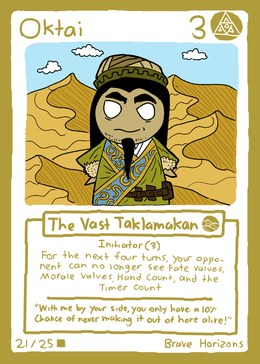
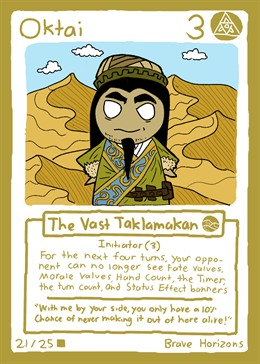
Complete Taklamakan concealment and turn audio fixes

Changed region(s): [[0.1538, 0.6648, 0.8923, 0.8159], [0.7077, 0.0302, 0.8, 0.1209]]

diff --git a/src/scripts/45-match-ui-codex.js b/src/scripts/45-match-ui-codex.js
@@ -75,6 +75,30 @@
     if(out&&source&&source.textContent)out.textContent=source.textContent;
   }
   function copyHtml(root,key){const out=root.querySelector(`[data-html="${key}"]`),source=$(key);if(out&&source&&out.dataset.cache!==source.innerHTML){out.innerHTML=source.innerHTML;out.dataset.cache=source.innerHTML}}
+  function playEndTurnInputCue(key){
+    // Run directly inside the trusted click gesture.  Deferred/authoritative
+    // submission may happen after that gesture and Chromium can reject audio.
+    const dedupeKey=String(key||'end-turn-input');
+    const store=window.__fatePlayedEndTurnInputCues||(window.__fatePlayedEndTurnInputCues=new Set());
+    if(store.has(dedupeKey))return false;
+    store.add(dedupeKey);
+    return playTurnStartCue('turn-end:'+dedupeKey);
+  }
+  window.playFateEndTurnInputCue=playEndTurnInputCue;
+  function playTurnStartCue(key){
+    const dedupeKey=String(key||'turn-start');
+    const store=window.__fatePlayedTurnStartCues||(window.__fatePlayedTurnStartCues=new Set());
+    if(store.has(dedupeKey))return false;
+    store.add(dedupeKey);
+    // The core sound has its own broad time throttle. Reset it here because
+    // this exact turn key is the stronger dedupe and competing UI observers
+    // must not consume the cue first.
+    window.__fateLastTurnChangeSfxAt=0;
+    if(typeof window.playSfx==='function'){window.playSfx('turnChange');return true;}
+    if(typeof window.playFateSfxOnce==='function')return window.playFateSfxOnce('turnChange',dedupeKey,0);
+    return false;
+  }
+  window.playFateTurnStartCue=playTurnStartCue;
   function invokeEndTurn(){
     // The authoritative screen is the only owner of a v3 local turn. Submit
     // directly to it; forwarding through the hidden legacy button makes human
@@ -84,8 +108,7 @@
       const command=screen?.view?.legalCommands?.find(item=>item.type==='END_TURN');
       if(screen&&command){
         const turn=Number(screen.view?.state?.turn||0);
-        if(typeof window.playEndTurnSfxOnce==='function')window.playEndTurnSfxOnce('end-turn:authority-local:'+turn);
-        else if(typeof window.playSfx==='function')window.playSfx('endTurn');
+        playEndTurnInputCue('end-turn:authority-local:'+turn);
         screen.submit(command);
       }
       return;
@@ -119,7 +142,14 @@
   function escapeStatusText(value){
     return String(value||'').replace(/[&<>"']/g,char=>({'&':'&amp;','<':'&lt;','>':'&gt;','"':'&quot;',"'":'&#39;'}[char]));
   }
-  function statusRailSummary(key){
+  function concealedMoraleTooltip(html){
+    const template=document.createElement('template');
+    template.innerHTML=String(html||'');
+    const value=template.content.querySelector('header b');
+    if(value)value.textContent='???/???';
+    return template.innerHTML;
+  }
+  function statusRailSummary(key,onlyTaklamakan){
     const rail=$(key==='you'?'tp-status-left':'tp-status-right');
     const completeEffects=Array.isArray(rail?._fateAllStatusEffects)?rail._fateAllStatusEffects:null;
     if(completeEffects){
@@ -127,6 +157,7 @@
       completeEffects.forEach(effect=>{
         if(!effect||effect.isOverflow)return;
         const ability=String(effect.cardAbility||effect.label||'Active Effect').trim();
+        if(onlyTaklamakan&&ability!=='The Vast Taklamakan'&&!String(effect.extraClass||'').includes('oktai-conceal'))return;
         const description=String(effect.cardEffect||ability).replace(/\s+/g,' ').trim();
         const signature=(ability+'|'+description).toLowerCase();
         if(seen.has(signature))return;
@@ -140,6 +171,7 @@
     const seen=new Set(),entries=[];
     pills.forEach(pill=>{
       const ability=String(pill.dataset.effectAbility||pill.querySelector('.ept-ability')?.textContent||pill.querySelector('.effect-pill-label')?.textContent||'Active Effect').trim();
+      if(onlyTaklamakan&&ability!=='The Vast Taklamakan'&&!pill.classList.contains('effect-pill-oktai-conceal'))return;
       const description=String(pill.querySelector('.ept-effect')?.textContent||pill.getAttribute('aria-label')||pill.getAttribute('title')||'').replace(/\s+/g,' ').trim();
       const signature=(ability+'|'+description).toLowerCase();
       if(seen.has(signature))return;
@@ -190,6 +222,7 @@
     ['my-name','opp-name','turn-hud-turn','turn-hud-timer','turn-hud-player','my-deck-count','my-discard-count','act-hint'].forEach(k=>copyText(root,k));
     ['my-name','opp-name'].forEach(key=>{const name=root.querySelector(`[data-text="${key}"]`),length=(name?.textContent||'').trim().length;if(name){name.classList.toggle('is-long-name',length>=21);name.classList.toggle('is-very-long-name',length>=28)}});
     const clockText=root.querySelector('[data-text="turn-hud-timer"]');
+    const turnCountText=root.querySelector('[data-text="turn-hud-turn"]');
     const clockMatch=(clockText?.textContent||'').match(/\d+\s*:\s*\d+/);
     if(clockText&&clockMatch)clockText.textContent=clockMatch[0].replace(/\s/g,'');
     copyHtml(root,'my-stat');copyHtml(root,'opp-stat');
@@ -197,8 +230,8 @@
     const turnState=authorityView?.state||(invoke('getFateGameState')||window.FATE_GAME_STATE||{}),activePlayer=Number(turnState?.activePlayer??turnState?.currentPlayer),turnNumber=Number(turnState?.turn??turnState?.turnNumber??0),turnSoundKey=[String(turnState?.matchId||turnState?._onlineRoomCode||'local'),turnNumber,activePlayer].join(':');
     if(root._lastTurnOwnershipSoundKey!==turnSoundKey){
       root._lastTurnOwnershipSoundKey=turnSoundKey;
-      if(activePlayer===self&&(!window.shouldPlayTurnChangeSfx||window.shouldPlayTurnChangeSfx())){
-        if(typeof window.playSfx==='function')window.playSfx('turnChange');
+      if(activePlayer===self){
+        playTurnStartCue('turn-start:'+turnNumber+':'+activePlayer);
       }
     }
     const selfProjected=authorityView?.state?.players?.[self],rivalProjected=authorityView?.state?.players?.[rival];
@@ -206,6 +239,7 @@
     const bh21Concealed=typeof window.isBh21ViewerConcealed==='function'&&window.isBh21ViewerConcealed(self);
     root.querySelector('[data-hand-count="self"]').textContent=bh21Concealed?'?':String(selfHand);root.querySelector('[data-hand-count="rival"]').textContent=bh21Concealed?'?':String(rivalHand);
     if(clockText&&bh21Concealed)clockText.textContent='?:??';
+    if(turnCountText&&bh21Concealed)turnCountText.textContent='??/??';
     const pilePlayer=currentPilePlayer(self);
     const discardArt=root.querySelector('[data-discard] .codex-v19-archive-art');
     if(discardArt){
@@ -246,11 +280,11 @@
         if(label)label.textContent=bh21Concealed?'???':String(value);if(fill)fill.style.width=Math.max(0,Math.min(100,displayedValue/max*100))+'%';
        const moralePanel=root.querySelector(`[data-morale-panel="${key}"]`);
         const liveMoraleContent=panel?.querySelector('.mp-morale-tip')?.innerHTML||'<p>Morale penalties are inactive.</p>';
-        if(bh21Concealed&&root._bh21MoraleUiSnapshot&&!root._bh21MoraleUiSnapshot.contents[key])root._bh21MoraleUiSnapshot.contents[key]=liveMoraleContent;
+        if(bh21Concealed&&root._bh21MoraleUiSnapshot&&!root._bh21MoraleUiSnapshot.contents[key])root._bh21MoraleUiSnapshot.contents[key]=concealedMoraleTooltip(liveMoraleContent);
         if(moralePanel)moralePanel.dataset.content=bh21Concealed?(root._bh21MoraleUiSnapshot?.contents?.[key]||liveMoraleContent):liveMoraleContent;
        if(button){
-         const rail=statusRailSummary(key),summaryCount=Number((statusNode?.querySelector(':scope > b')?.textContent||'0').match(/\d+/)?.[0]||0),count=Math.max(summaryCount,rail.count),content=rail.count?rail.content:(statusNode?.querySelector('.mp-status-popover')?.innerHTML||'<p>No active status effects.</p>');
-          button.querySelector('[data-status-count]').textContent=String(count);button.dataset.content=content;
+          const rail=statusRailSummary(key,bh21Concealed),summaryCount=Number((statusNode?.querySelector(':scope > b')?.textContent||'0').match(/\d+/)?.[0]||0),count=bh21Concealed?rail.count:Math.max(summaryCount,rail.count),content=rail.count?rail.content:(bh21Concealed?'<p>The Taklamakan hinders your ability to view active statuses.</p>':(statusNode?.querySelector('.mp-status-popover')?.innerHTML||'<p>No active status effects.</p>'));
+           button.querySelector('[data-status-count]').textContent=bh21Concealed?'?':String(count);button.dataset.content=content;
           button.setAttribute('aria-label',(key==='you'?'Your':'Opponent')+' status effects');
          updateStatusItems(button,statusNode,count);
        }

diff --git a/index.html b/index.html
@@ -12,7 +12,7 @@
 <link rel="icon" href="blank.png">
   <link rel="stylesheet" href="src/styles/game.css?v=1785072307">
 <link rel="stylesheet" href="src/styles/99-ui-final.css?v=1784660001">
-<link rel="stylesheet" href="src/styles/zz-codex-last.css?v=1788356101">
+<link rel="stylesheet" href="src/styles/zz-codex-last.css?v=1788372101">
 <link rel="stylesheet" href="src/styles/profile-view-v2.css?v=1788000601">
 <link rel="stylesheet" href="src/styles/profile-picker-performance.css?v=1788280003">
 <link rel="stylesheet" href="src/styles/match-scene-v2.css?v=1788000201">
@@ -23,7 +23,7 @@
 <link rel="stylesheet" href="src/styles/endgame.css?v=1788280001">
 <!-- The match shell is intentionally loaded last. It is a reversible, single
      authority layer; fateMatchUI=0 restores the retained legacy match UI. -->
-<link rel="stylesheet" href="src/styles/zzzzzzzzzzzzzzzzzzzzzzz-match-ui-svg-v20.css?v=1788356401">
+<link rel="stylesheet" href="src/styles/zzzzzzzzzzzzzzzzzzzzzzz-match-ui-svg-v20.css?v=1788372101">
 <!-- Inline emergency overrides moved to src/styles/99-ui-final.css?v=208. -->
 </head>
 <body>
@@ -613,7 +613,7 @@
 <!-- TOAST -->
 <div id="toast"></div>
 
-  <script src="src/scripts/00-structural-helpers.js?v=1788295601"></script>
+  <script src="src/scripts/00-structural-helpers.js?v=1788368101"></script>
   <script src="src/scripts/01-data-and-state.js?v=1788362401"></script>
   <script src="src/scripts/01a-pressure-card-reworks.js?v=1788353101"></script>
 <script src="src/scripts/02-screen-and-deckbuilder.js?v=1788351001"></script>
@@ -621,8 +621,8 @@
 <script src="src/scripts/13-svg-ui-enhancements.js?v=1780269000"></script>
   <script src="src/scripts/03-profile-and-progression.js?v=1788000701"></script>
 <script src="src/scripts/04-game-setup.js?v=1788002503"></script>
-<script src="src/scripts/05-gameplay-core.js?v=1788356101"></script>
-  <script src="src/scripts/06-rendering-and-helpers.js?v=1788362401"></script>
+<script src="src/scripts/05-gameplay-core.js?v=1788372001"></script>
+  <script src="src/scripts/06-rendering-and-helpers.js?v=1788372001"></script>
 <script src="src/scripts/render-v2/00-render-v2-flags.js?v=1780590901"></script>
   <script src="src/scripts/render-v2/01-render-snapshot.js?v=1787980001"></script>
 <script src="src/scripts/render-v2/02-match-layout-engine.js?v=1788120601"></script>
@@ -648,8 +648,8 @@
   <script src="src/scripts/08a-profile-performance.js?v=1788280005"></script>
   <script src="src/scripts/27-morale-pressure-ui.js?v=1788362401"></script>
   <script src="src/scripts/34-hand-viewer.js?v=1788073001"></script>
-  <script src="src/scripts/45-match-ui-codex.js?v=1788365401"></script>
-<script src="src/scripts/46-bh21-hooks.js?v=1788365401"></script>
+  <script src="src/scripts/45-match-ui-codex.js?v=1788372101"></script>
+<script src="src/scripts/46-bh21-hooks.js?v=1788372001"></script>
   <script src="src/scripts/25-profile-view-v2.js?v=1785350004"></script>
 <script src="src/scripts/09-challenger-mode.js?v=1788280003"></script>
 <script src="src/scripts/09a-card-information-5-lore.js?v=1784293501"></script>
@@ -673,7 +673,7 @@
     './src/scripts/15-online-auth.js?v=1788337802',
     './src/scripts/16-online-core.js?v=1782617501',
     './src/scripts/17-online-social.js?v=1788000401',
-    './src/scripts/18-online-rooms.js?v=1788365401&sync=1788365401',
+    './src/scripts/18-online-rooms.js?v=1788369001&sync=1788369001',
     './src/scripts/19-online-elo.js?v=1788000401',
     './src/scripts/20-online-economy.js?v=1788001501'
   ];

diff --git a/src/scripts/46-bh21-hooks.js b/src/scripts/46-bh21-hooks.js
@@ -69,8 +69,13 @@
     replacementPausedBaseMusic=true;
   }
   function makennaAddedTurnActive(){
-    const state=window.G;
-    return !!(state&&state._makennaBirdCultActivated&&Number(state.turn)>=24&&Number(state.turn)<=Number(state.maxTurns));
+    const bridged=typeof window.getMakennaLandscapePresentationState==='function'
+      ? window.getMakennaLandscapePresentationState()
+      : null;
+    const state=bridged||((typeof G!=='undefined'&&G)?G:window.G);
+    const maxTurns=Math.max(1,Number(state&&state.maxTurns)||24);
+    const activated=!!(state&&(state.activated||state._makennaBirdCultActivated||maxTurns>24));
+    return activated&&Number(state.turn)>=24&&Number(state.turn)<=maxTurns;
   }
   function syncPresentation(){
     const game=document.getElementById('s-game');if(!game)return;
@@ -117,9 +122,10 @@
     if(oktaiActive){
       document.querySelectorAll('#fate-codex-ui-v19 [data-hand-count]').forEach(function(node){node.textContent='?';});
       document.querySelectorAll('#fate-codex-ui-v19 [data-text="turn-hud-timer"], #turn-hud-timer, #tp-timer').forEach(function(node){node.textContent='?:??';});
+      document.querySelectorAll('#fate-codex-ui-v19 [data-text="turn-hud-turn"], #turn-hud-turn, #tp-cur').forEach(function(node){node.textContent='??/??';});
     }
   }
   window.syncBh21ViewerPresentation=syncPresentation;
   setInterval(syncPresentation,100);
-  const style=document.createElement('style');style.textContent='.bh21-concealed-fate-icon{display:block;width:1.35em;height:1.35em;object-fit:contain;filter:drop-shadow(0 0 5px #ffd84a)}.bh21-viewer-concealed [data-morale]{color:#ffe36d!important;text-shadow:0 0 10px rgba(255,216,74,.85)}#s-game.bh21-viewer-concealed #fate-codex-ui-v19 [data-text="turn-hud-timer"]{position:relative!important;top:3px!important}#s-game.bh21-viewer-concealed{background-image:linear-gradient(180deg,rgba(4,3,8,.08),rgba(4,3,8,.20)),url("oktai.png?v=20260830b")!important;background-size:cover,cover!important;background-position:center,center!important;background-repeat:no-repeat!important}#s-game.bh20-added-turn-presentation:not(.bh21-viewer-concealed){background-image:linear-gradient(180deg,rgba(4,3,8,.08),rgba(4,3,8,.20)),url("makenna.png?v=20260830a")!important;background-size:cover,cover!important;background-position:center,center!important;background-repeat:no-repeat!important}';document.head.appendChild(style);
+  const style=document.createElement('style');style.textContent='.bh21-concealed-fate-icon{display:block;width:1.35em;height:1.35em;object-fit:contain;filter:drop-shadow(0 0 5px #ffd84a)}.bh21-viewer-concealed [data-morale]{color:#ffe36d!important;text-shadow:0 0 10px rgba(255,216,74,.85)}#s-game.bh21-viewer-concealed #fate-codex-ui-v19 [data-text="turn-hud-timer"]{transform:translateY(3px)!important}#s-game.bh21-viewer-concealed{background-image:linear-gradient(180deg,rgba(4,3,8,.08),rgba(4,3,8,.20)),url("oktai.png?v=20260830b")!important;background-size:cover,cover!important;background-position:center,center!important;background-repeat:no-repeat!important}#s-game.bh20-added-turn-presentation:not(.bh21-viewer-concealed){background-image:linear-gradient(180deg,rgba(4,3,8,.08),rgba(4,3,8,.20)),url("makenna.png?v=20260830a")!important;background-size:cover,cover!important;background-position:center,center!important;background-repeat:no-repeat!important}';document.head.appendChild(style);
 })();

diff --git a/src/styles/zzzzzzzzzzzzzzzzzzzzzzz-match-ui-svg-v20.css b/src/styles/zzzzzzzzzzzzzzzzzzzzzzz-match-ui-svg-v20.css
@@ -185,7 +185,7 @@
 #s-game.svg-board-v20-live .codex-v19-popover[data-kind="status"] .mp-status-entry small{margin-bottom:3px!important;color:#86c9ef!important;font:600 7px/1 'Cinzel',serif!important;letter-spacing:.1em!important;text-transform:uppercase!important}
 #s-game.svg-board-v20-live .codex-v19-popover[data-kind="status"] .mp-status-entry.opponent small{color:#ef8d98!important}
  #s-game.svg-board-v20-live .codex-v19-popover[data-kind="morale"]{width:390px!important;max-height:324px!important;padding:15px 17px!important;border-color:#d7aa4f!important;background:linear-gradient(145deg,#071722f7,#090a12f7)!important}
-#s-game.svg-board-v20-live .codex-v19-popover[data-kind="morale"] .mp-morale-tip{display:block!important;position:static!important;width:auto!important;padding:0!important;border:0!important;background:none!important;box-shadow:none!important}
+#s-game.svg-board-v20-live .codex-v19-popover[data-kind="morale"] .mp-morale-tip{display:block!important;position:static!important;width:auto!important;padding:0 0 18px!important;border:0!important;background:none!important;box-shadow:none!important}
 #s-game.svg-board-v20-live .codex-v19-popover[data-kind="morale"] header{display:flex!important;justify-content:space-between!important;padding:0 0 9px!important;border-bottom:1px solid rgba(215,170,79,.5)!important;color:#fff0cf!important;font:700 11px/1 'Cinzel',serif!important;letter-spacing:.12em!important}
 #s-game.svg-board-v20-live .codex-v19-popover[data-kind="morale"] .mp-morale-rule{position:relative!important;display:grid!important;grid-template-columns:104px 1fr!important;gap:12px!important;padding:8px 8px!important;border-bottom:1px solid rgba(255,255,255,.07)!important;color:#93a5aa!important;font:500 10px/1.35 Georgia,serif!important;overflow:hidden!important}
 #s-game.svg-board-v20-live .codex-v19-popover[data-kind="morale"] .mp-morale-rule b{color:#a99361!important;font:700 9px/1.3 'Cinzel',serif!important}
@@ -193,7 +193,7 @@
 #s-game.svg-board-v20-live .codex-v19-popover[data-kind="morale"] .mp-morale-rule.active:before{display:none!important;content:none!important}
  #s-game.svg-board-v20-live .codex-v19-popover[data-kind="morale"] .mp-morale-rule.active b{color:#5ee8ee!important}
  #s-game.svg-board-v20-live .codex-v19-popover[data-kind="morale"] .mp-morale-rule:last-of-type{padding-bottom:12px!important}
- #s-game.svg-board-v20-live .codex-v19-popover[data-kind="morale"] .mp-morale-tip:after{content:''!important;display:block!important;height:4px!important;min-height:4px!important}
+ #s-game.svg-board-v20-live .codex-v19-popover[data-kind="morale"] .mp-morale-tip:after{content:''!important;display:block!important;height:10px!important;min-height:10px!important}
 
 /* Board surface */
 #s-game.svg-board-v20-live .codex-v19-field{position:absolute!important;z-index:2!important;inset:136px 18px 174px!important;margin:0!important;padding:0!important;overflow:visible!important;background:none}

diff --git a/src/scripts/05-gameplay-core.js b/src/scripts/05-gameplay-core.js
@@ -571,6 +571,19 @@ function endTurn(opts) {
   // A player click must not interrupt a genuinely active AI turn. Check this
   // before consuming the shared input debounce.
   if(G._aiRunning && isActualAITurn && !isAICompletion) return false;
+  // Play on the human's input, before a card window/picker can defer turn
+  // resolution.  Reserve one cue per turn so resuming after that window does
+  // not replay it.
+  if(!isActualAITurn){
+    const inputSfxKey = ['end-turn-input', String(G._onlineRoomCode || 'local'), Number(G.turn || 0) || 0, Number(G.currentPlayer || 0) || 0].join(':');
+    if(G._lastEndTurnInputSfxKey !== inputSfxKey){
+      G._lastEndTurnInputSfxKey = inputSfxKey;
+      if(typeof window.playFateEndTurnInputCue === 'function') window.playFateEndTurnInputCue(inputSfxKey);
+      else if(typeof window.playSfx === 'function') window.playSfx('endTurn');
+      else if(typeof window.playEndTurnSfxOnce === 'function') window.playEndTurnSfxOnce(inputSfxKey);
+      else if(typeof window.playFateSfxOnce === 'function') window.playFateSfxOnce('endTurn', inputSfxKey, 0);
+    }
+  }
   const cardInfoWasOpen = isCardInformationWindowOpen();
   if(cardInfoWasOpen) {
     if(typeof dismissCardInfoOverlay === 'function') dismissCardInfoOverlay();
@@ -625,10 +638,6 @@ function endTurn(opts) {
   if(typeof maybeResolveLandscapeEndTurn === 'function' && maybeResolveLandscapeEndTurn()) {
     return;
   }
-
-  const endTurnSfxKey = ['end-turn', String(G._onlineRoomCode || 'local'), Number(G.turn || 0) || 0, cp].join(':');
-  if(typeof window.playEndTurnSfxOnce === 'function') window.playEndTurnSfxOnce(endTurnSfxKey);
-  else if(typeof playSfx === 'function') playSfx('endTurn');
 
   if(typeof window.resolveLegacyMoralePressureTurnEnd === 'function') {
     window.resolveLegacyMoralePressureTurnEnd(cp);
@@ -692,6 +701,19 @@ function hidePT() {
   hidePassTurnOverlay();
   nextPlayerTurn();
 }
+
+// Presentation bridge for Makenna's added-turn landscape.  The raised turn
+// limit is the authoritative result of Thousand Year Bird Cult, so it also
+// covers saved/online matches that predate the private activation marker.
+function getMakennaLandscapePresentationState() {
+  const maxTurns = Math.max(1, Number(G && G.maxTurns) || 24);
+  return {
+    activated: !!(G && (G._makennaBirdCultActivated || maxTurns > 24)),
+    turn: Math.max(0, Number(G && G.turn) || 0),
+    maxTurns
+  };
+}
+window.getMakennaLandscapePresentationState = getMakennaLandscapePresentationState;
 
 function getBusserTurnsLeft(card) {
   // Breakfast Republic Busser no longer grants movement. Returning zero also

diff --git a/src/scripts/18-online-rooms.js b/src/scripts/18-online-rooms.js
@@ -2609,7 +2609,11 @@
     g._onlineLastYourTurnSfxKey = key;
     setTimeout(function(){
       try {
-        if(typeof window.playSfx === 'function') window.playSfx('turnChange');
+        if(typeof window.playFateTurnStartCue === 'function') {
+          window.playFateTurnStartCue('turn-start:' + (Number(g.turn || 0) || 0) + ':' + currentPlayer);
+        } else if(typeof window.playFateSfxOnce === 'function') {
+          window.playFateSfxOnce('turnChange', 'online-turn-start:' + key, 700);
+        } else if(typeof window.playSfx === 'function') window.playSfx('turnChange');
       } catch(e) {}
     }, 80);
     try {
@@ -2619,7 +2623,7 @@
     return true;
   }
   function playOnlineLocalEndTurnSfxOnce(g){
-    if(!g || g._onlineApplyingRemoteAction || typeof window.playSfx !== 'function') return false;
+    if(!g || g._onlineApplyingRemoteAction) return false;
     const localIndex = Number.isInteger(Number(g._onlinePlayerIndex)) ? Number(g._onlinePlayerIndex) : null;
     if(localIndex === null || Number(g.currentPlayer) !== localIndex) return false;
     const key = [
@@ -2631,9 +2635,14 @@
     g._onlineLastLocalEndTurnSfxKey = key;
     try{
       const dedupeKey = 'end-turn:' + key;
+      if(typeof window.playFateEndTurnInputCue === 'function') return window.playFateEndTurnInputCue(dedupeKey);
+      if(typeof window.playSfx === 'function') {
+        window.playSfx('endTurn');
+        return true;
+      }
       if(typeof window.playEndTurnSfxOnce === 'function') return window.playEndTurnSfxOnce(dedupeKey);
-      window.playSfx('endTurn');
-      return true;
+      if(typeof window.playFateSfxOnce === 'function') return window.playFateSfxOnce('endTurn', dedupeKey, 0);
+      return false;
     }catch(e){
       return false;
     }
@@ -3562,6 +3571,7 @@
       turnNumber:Math.max(1, Number(projected.turn) || 1),
       maxTurns:Math.max(1, Number(projected.maxTurns)
         || (projected.gameSettings?.zoneControlRework === false ? 20 : 24)),
+      _makennaBirdCultActivated:projected.makennaBirdCultActivated === true,
       phase:String(projected.phase || 'main'),
       landscapeId:String(projected.landscapeId || 'igb1'),
       landscapeBgNum,

diff --git a/src/scripts/06-rendering-and-helpers.js b/src/scripts/06-rendering-and-helpers.js
@@ -5642,7 +5642,7 @@ function renderTopbarEffects() {
       add('bh19', 'high_t', 'Abed', 'High-T', 'Permanent Fate gain effects have doubled potency for this turn.', 'effect-pill-high-t');
       if(allEffects.length && (affected === 0 || affected === 1)) allEffects[allEffects.length - 1].owner = affected;
     }else if(type === 'BH21_FATE_MORALE_CONCEALMENT' && remaining > 0){
-      add('bh21','oktai_conceal','Oktai','The Vast Taklamakan','The affected opponent cannot see field or zone Fate values, Morale values or changes, hand counts, or the turn timer for ' + remaining + ' remaining turn' + (remaining === 1 ? '' : 's') + '.','effect-pill-oktai-conceal');
+      add('bh21','oktai_conceal','Oktai','The Vast Taklamakan','The affected opponent cannot see Fate values, Morale values or changes, hand counts, the timer, turn count, or other active status banners for ' + remaining + ' remaining turn' + (remaining === 1 ? '' : 's') + '.','effect-pill-oktai-conceal');
     }
   });
   const jamieSquares = Array.isArray(G?._phase7Geometry?.squareStatuses)
@@ -5731,7 +5731,7 @@ function renderTopbarEffects() {
     allEffects.push({
       icon:getStatusEffectIcon('oktai_conceal'),label:card?card.ability:'The Vast Taklamakan',
       cardName:card?card.name:'Oktai',cardAbility:card?card.ability:'The Vast Taklamakan',
-      cardEffect:'The affected opponent cannot see field or zone Fate values, Morale values or changes, hand counts, or the turn timer.',
+      cardEffect:'The affected opponent cannot see Fate values, Morale values or changes, hand counts, the timer, turn count, or other active status banners.',
       owner:Number(status.sourceController),turnsLeft:Number(status.remainingTargetTurns),
       sourceIid:status.sourceIid,extraClass:'effect-pill-oktai-conceal',statusInstanceKey:'bh21:'+String(status.sourceIid||'')
     });

diff --git a/src/scripts/01-data-and-state.js b/src/scripts/01-data-and-state.js
@@ -543,8 +543,8 @@ const CARDS = [
     flavor:'"While not based on racial superiority like other similarly styled Fascist Regimes, it does take quite an...avian character..."',img:'bh20.png?v=20260825a'},
   {id:'bh21',name:'Oktai',ability:'The Vast Taklamakan',type:'Initiator',aff:'expanded_worlds',
     fate:3,cost:3,rarity:'triangle',set:'brave_horizons',
-    effect:'Starting on your opponent\'s next turn and lasting for four of their turns, they cannot see field Fate values, zone Fate values, either player\'s Morale, either player\'s hand count, the turn timer, or the numerical amount of any Morale gain or loss.',
-    flavor:'"The Taklamakan is vast and unforgiving - just like my ex-wife"',img:'bh21.png?v=20260830c'},
+    effect:'For the next four turns, your opponent can no longer see Fate values, Morale values, Hand Count, the Timer, the turn count, or Status Effect banners.',
+    flavor:'"The Taklamakan is vast and unforgiving - just like my ex-wife"',img:'bh21.png?v=20260830d'},
   {id:'bh22',name:'Jamie',ability:'A Moonlit Shore',type:'Initiator',aff:'expanded_worlds',
     fate:5,cost:2,rarity:'triangle',set:'brave_horizons',
     effect:'Select a square in your safe row. At every Morale calculation, recover Morale equal to the Fate of the card on that square.',

diff --git a/src/styles/zz-codex-last.css b/src/styles/zz-codex-last.css
@@ -7783,13 +7783,24 @@ body.tutorial-active #s-game .landscape-panel.tutorial-landscape .landscape-desc
 #s-game .landscape-transition-layer{
   position:absolute;
   inset:0;
-  z-index:0;
+  z-index:0!important;
   pointer-events:none;
   opacity:0;
   background-size:cover;
   background-position:center;
   background-repeat:no-repeat;
   transition:opacity 1.15s ease;
+}
+
+/* Landscape crossfades belong below every match surface.  Keeping the
+   transition layer in its own stacking level prevents its fading bitmap from
+   dimming the board canvas, cards, HUD, prompts, or controls. */
+#s-game{
+  isolation:isolate;
+}
+
+#s-game > :not(.landscape-transition-layer){
+  z-index:1;
 }
 
 /* Compact 9-12 card hands reduce this heading only when its natural text wraps. */
